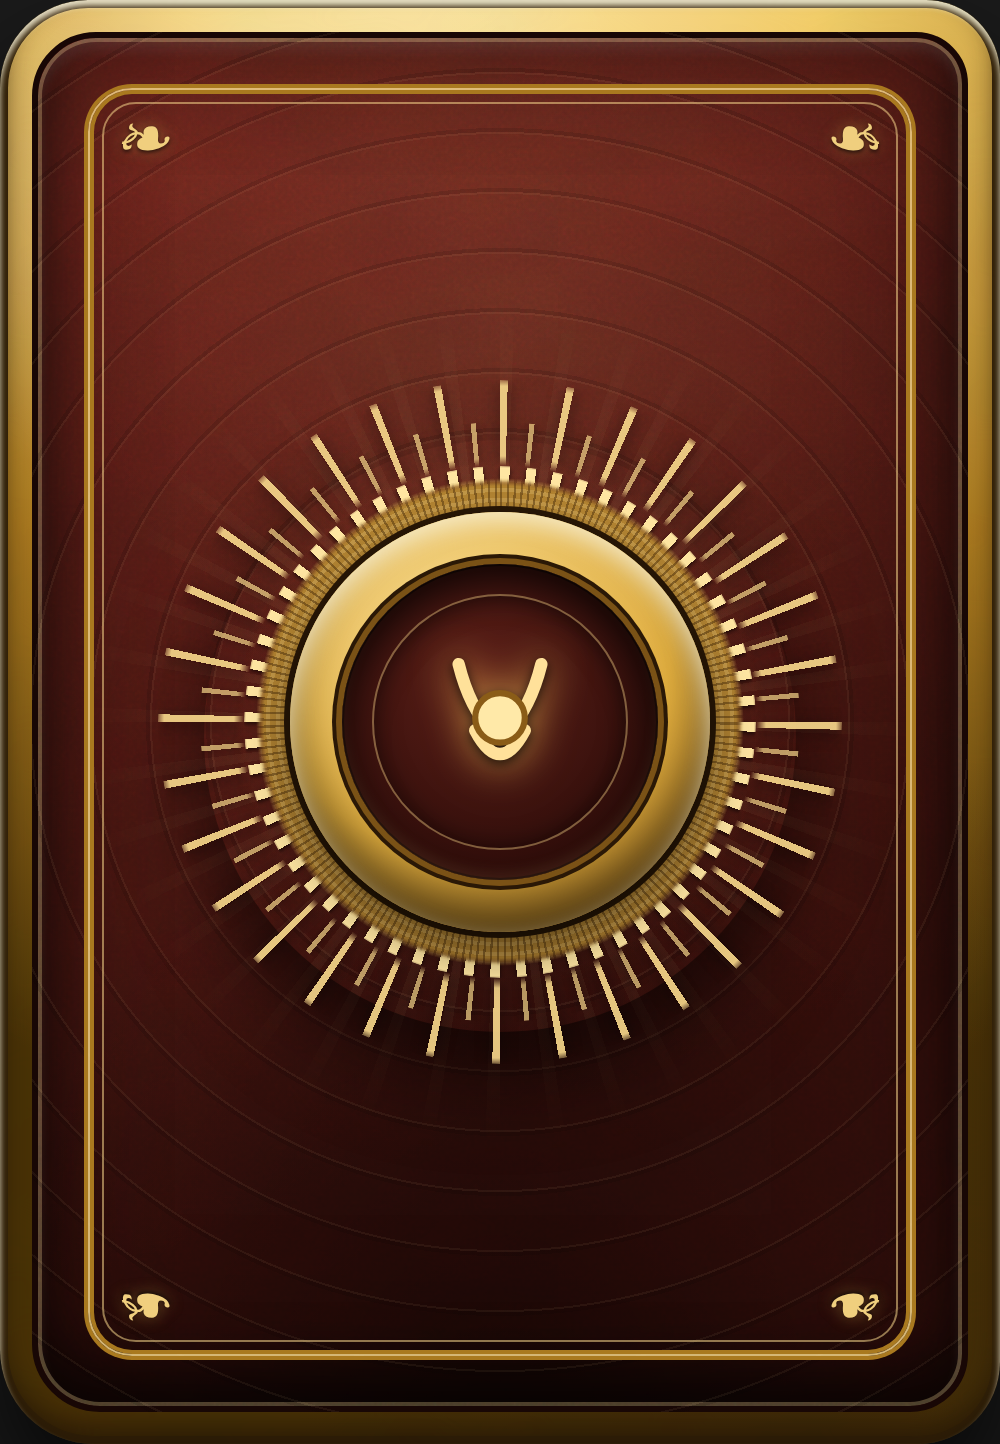
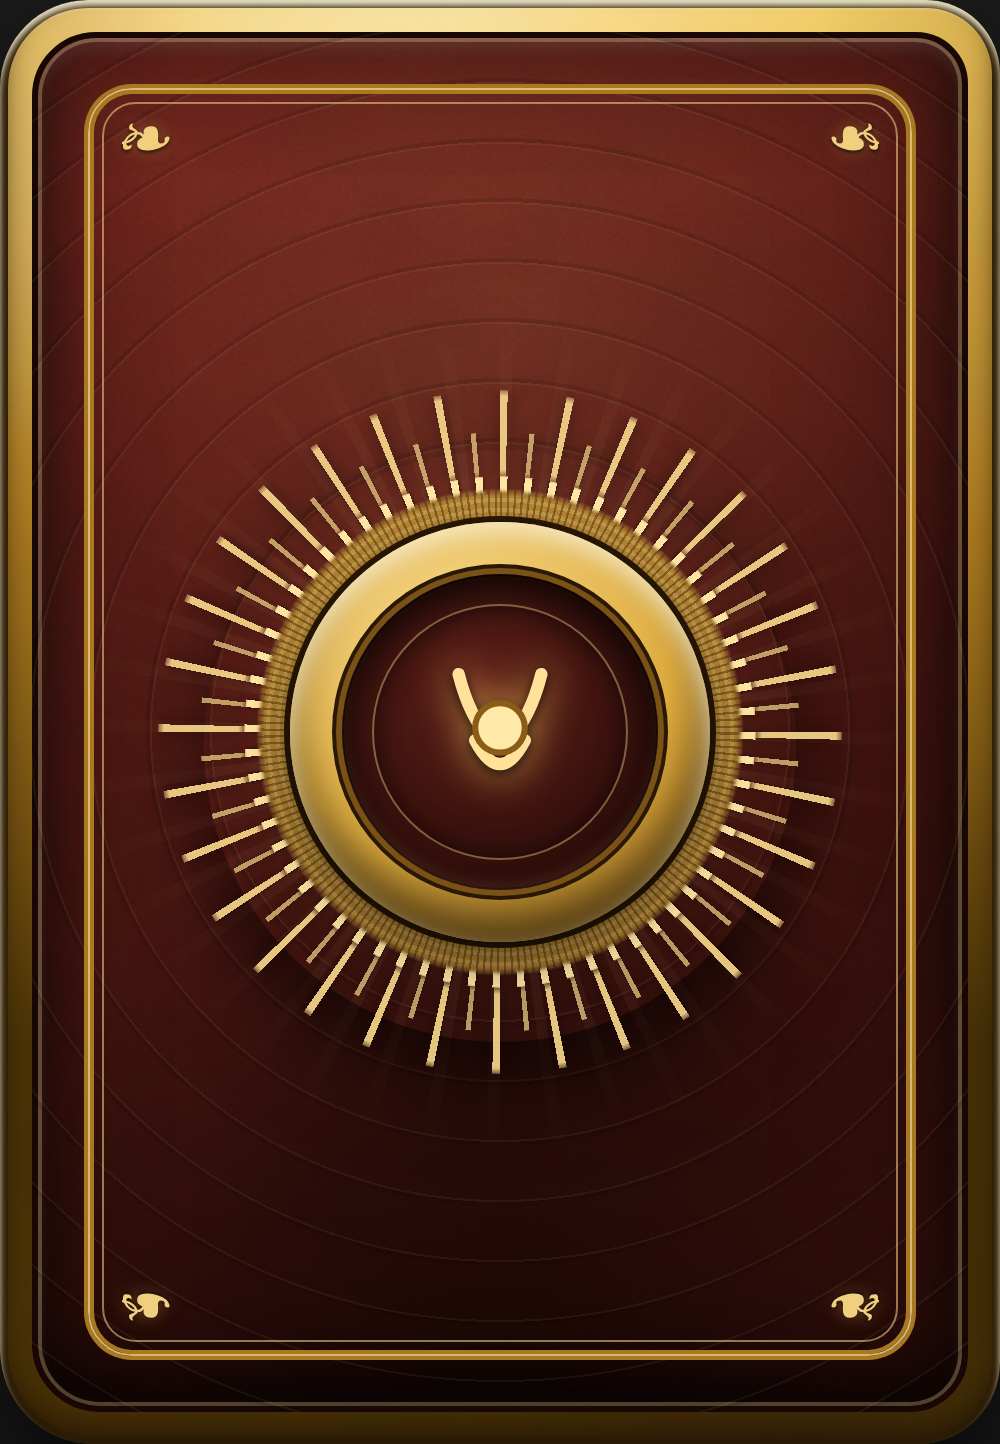
Refine card back: lower emblem 5px, align rays to pips
- Shift the whole medallion group down 5px (medallion, embossed leather
  rings, and bloom move together on one shared center).
- Align the beaded pips to the ray grid (period 5.625deg, phase 0) so a pip
  sits at the base of every ray; remove vertical shadow offsets that made
  the rays sit slightly below the pips.

Claude-Session: https://claude.ai/code/session_01G5Hrs1BzeArAgPsPYHMjVG

Changed region(s): [[0.155, 0.2805, 0.837, 0.7479]]

diff --git a/tools/cardart/cardback.html b/tools/cardart/cardback.html
@@ -29,13 +29,13 @@ body{background:#1b1b1b;display:flex;padding:40px;font-family:'Palatino Linotype
   opacity:.2;mix-blend-mode:multiply;}
 /* embossed concentric blind-tooling radiating from the center (leather depth) */
 .emboss{position:absolute;inset:16px;border-radius:32px 26px 29px 34px;overflow:hidden;z-index:1;pointer-events:none;
-  background:repeating-radial-gradient(circle at 50% 50%,
+  background:repeating-radial-gradient(circle at 50% calc(50% + 5px),
     transparent 0 24px,
     rgba(255,222,160,.055) 24px 25px,
     rgba(0,0,0,.11) 25px 27px,
     transparent 27px 30px);}
 /* faint tooled rosette bloom behind the medallion */
-.bloom{position:absolute;left:50%;top:50%;transform:translate(-50%,-50%);width:430px;height:430px;
+.bloom{position:absolute;left:50%;top:50%;transform:translate(-50%,calc(-50% + 5px));width:430px;height:430px;
   border-radius:50%;z-index:1;pointer-events:none;
   background:
     repeating-conic-gradient(from 0deg, rgba(255,220,150,.05) 0 2deg, transparent 2deg 9deg),
@@ -54,7 +54,7 @@ body{background:#1b1b1b;display:flex;padding:40px;font-family:'Palatino Linotype
 .bl{bottom:54px;left:56px;transform:scaleY(-1)}.br{bottom:54px;right:56px;transform:scale(-1)}
 
 /* ===== centered layered medallion ===== */
-.med{position:absolute;left:50%;top:50%;transform:translate(-50%,-50%);z-index:4;
+.med{position:absolute;left:50%;top:50%;transform:translate(-50%,calc(-50% + 5px));z-index:4;
   width:330px;height:330px;}
 /* soft cast shadow so the medallion sits ON the leather */
 .med::before{content:'';position:absolute;left:50%;top:52%;width:296px;height:296px;
@@ -63,21 +63,21 @@ body{background:#1b1b1b;display:flex;padding:40px;font-family:'Palatino Linotype
 /* radiant sunburst — long rays */
 .halo{width:342px;height:342px;
   background:repeating-conic-gradient(from 0deg,rgba(246,214,138,.92) 0 1.3deg,transparent 1.3deg 11.25deg);
-  -webkit-mask:radial-gradient(circle,transparent 128px,#000 133px,#000 168px,transparent 173px);
-  mask:radial-gradient(circle,transparent 128px,#000 133px,#000 168px,transparent 173px);
-  filter:drop-shadow(0 2px 4px rgba(0,0,0,.5));}
-/* short rays, offset between the long ones */
+  -webkit-mask:radial-gradient(circle,transparent 126px,#000 131px,#000 168px,transparent 173px);
+  mask:radial-gradient(circle,transparent 126px,#000 131px,#000 168px,transparent 173px);
+  filter:drop-shadow(0 0 4px rgba(0,0,0,.45));}
+/* short rays, offset exactly between the long ones (combined: one ray every 5.625deg) */
 .halo2{width:300px;height:300px;
   background:repeating-conic-gradient(from 5.625deg,rgba(246,214,138,.7) 0 1deg,transparent 1deg 11.25deg);
-  -webkit-mask:radial-gradient(circle,transparent 128px,#000 132px,#000 150px,transparent 154px);
-  mask:radial-gradient(circle,transparent 128px,#000 132px,#000 150px,transparent 154px);
-  filter:drop-shadow(0 1px 2px rgba(0,0,0,.5));}
-/* beaded ring */
+  -webkit-mask:radial-gradient(circle,transparent 126px,#000 130px,#000 150px,transparent 154px);
+  mask:radial-gradient(circle,transparent 126px,#000 130px,#000 150px,transparent 154px);
+  filter:drop-shadow(0 0 2px rgba(0,0,0,.45));}
+/* beaded ring — one pip at the base of every ray (period 5.625deg, phase 0) */
 .bead{width:256px;height:256px;
-  background:repeating-conic-gradient(from 0deg,#ffe6a2 0 2.2deg,transparent 2.2deg 6deg);
+  background:repeating-conic-gradient(from 0deg,#ffe6a2 0 1.7deg,transparent 1.7deg 5.625deg);
   -webkit-mask:radial-gradient(circle,transparent 118px,#000 121px,#000 127px,transparent 130px);
   mask:radial-gradient(circle,transparent 118px,#000 121px,#000 127px,transparent 130px);
-  filter:drop-shadow(0 1px 1px rgba(0,0,0,.6));}
+  filter:drop-shadow(0 0 1px rgba(0,0,0,.6));}
 /* engine-turned guilloche band */
 .guilloche{width:244px;height:244px;
   background:
